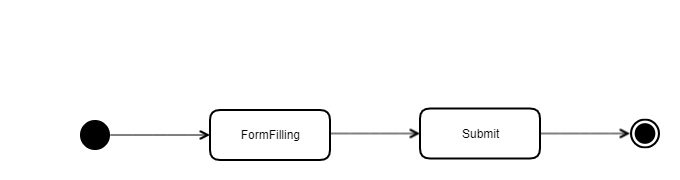
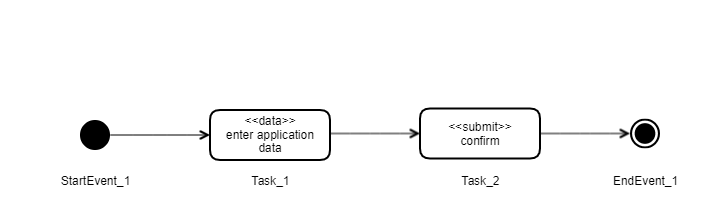
Updated currentTask on Process

Changed region(s): [[0.0618, 0.5, 0.9882, 0.9167], [0.3088, 0.8333, 0.4941, 0.9167], [0.6176, 0.8056, 0.8029, 0.9167]]

diff --git a/content/altinn-api/_index.md b/content/altinn-api/_index.md
@@ -137,7 +137,7 @@ This call will return the instance metadata record that was created. A unique id
         "started": "2019-09-25T09:32:44.20Z",
         "currentTask": {
             "started": "2019-10-10T32:22.00Z",
-            "processElementId": "Data_1",
+            "elementId": "Task_1",
             "name": "Fyll ut",
             "altinnTaskType": "data",
             "validated": {
@@ -313,10 +313,10 @@ Will return a multipart http response with the following content:
 
 Application owners can search for application instances with a simple GET request towards the *instances* endpoint.
 
-For example: To get all instances of appId *org/app*, that is in at task with id *Submit_1* (which is Submit, see process definition), has last changed date greater than *2019-05-01* and that has label *gruppe3*.
+For example: To get all instances of appId *org/app*, that is in at task with id *Task_2* (which is Submit, see process definition), has last changed date greater than *2019-05-01* and that has label *gruppe3*.
 
 ```http
-GET {storagePath}/instances?appId=org/app&process.currentTask=Submit_1&lastChangedDateTime=gt:2019-05-01&label=gruppe3
+GET {storagePath}/instances?appId=org/app&process.currentTask=Task_2&lastChangedDateTime=gt:2019-05-01&label=gruppe3
 ```
 
 Another example is get all instances of all apps of an organistation *org* that has completed their process.
@@ -406,7 +406,7 @@ Example of event data.
     "instanceOwnerId": "60238",
     "userId": 338829,
     "authenticationLevel": 1,
-    "currentTask": "Submit_1",
+    "currentTask": "Task_2",
     "enduserSystemId": 2
 }
 ```
@@ -420,7 +420,7 @@ Selected instance events. Created, first read, change process state. Optinally s
 Events can be queried. May be piped.
 
 ```http
-GET {storagePath}/applications/org/app/events?createdDateTime=gte:2019-03-30&process.currentTask=Submit_1
+GET {storagePath}/applications/org/app/events?createdDateTime=gte:2019-03-30&process.currentTask=Task_2
 ```
 
 Query result: 
@@ -448,8 +448,8 @@ Query result:
             }
         ],
         "eventType": "ProcessStateChange",
-        "previousTask": "Data_1",
-        "currentTask": "Submit_1",
+        "previousTask": "Task_1",
+        "currentTask": "Task_2",
         "userId": "userX"
     }
 ]
@@ -504,11 +504,11 @@ A process is represented by an process modell in BPMN/XML notation. Each task ha
     <bpmn2:startEvent id="StartEvent_1">
       <bpmn2:outgoing>SequenceFlow_1</bpmn2:outgoing>
     </bpmn2:startEvent>
-    <bpmn2:task id="Data_1" name="Fyll ut" altinn:tasktype="data">
+    <bpmn2:task id="Task_1" name="Fyll ut" altinn:tasktype="data">
       <bpmn2:incoming>SequenceFlow_1</bpmn2:incoming>
       <bpmn2:outgoing>SequenceFlow_2</bpmn2:outgoing>
     </bpmn2:task>
-    <bpmn2:task id="Submit_1" name="Send inn" altinn:tasktype="submit">
+    <bpmn2:task id="Task_2" name="Send inn" altinn:tasktype="submit">
       <bpmn2:incoming>SequenceFlow_2</bpmn2:incoming>
       <bpmn2:outgoing>SequenceFlow_3</bpmn2:outgoing>
     </bpmn2:task>
@@ -516,8 +516,8 @@ A process is represented by an process modell in BPMN/XML notation. Each task ha
       <bpmn2:incoming>SequenceFlow_3</bpmn2:incoming>
     </bpmn2:endEvent>
     <bpmn2:sequenceFlow id="SequenceFlow_1" sourceRef="StartEvent_1" targetRef="data_1" />
-    <bpmn2:sequenceFlow id="SequenceFlow_2" sourceRef="Data_1" targetRef="Submit_1" />
-    <bpmn2:sequenceFlow id="SequenceFlow_3" sourceRef="Submit_1" targetRef="EndEvent_1" />
+    <bpmn2:sequenceFlow id="SequenceFlow_2" sourceRef="Task_1" targetRef="Task_2" />
+    <bpmn2:sequenceFlow id="SequenceFlow_3" sourceRef="Task_2" targetRef="EndEvent_1" />
   </bpmn2:process>
 ```
 
@@ -529,7 +529,7 @@ Application developers can in their BPMN Definition specify some altinn specific
 - *submit* - user is asked if he should submit the information which has been filled in on previous tasks
 - *payment* - user is asked to pay a specific amount
 - *signing* - user is asked to provide a digital signature
-- *external* - task is handled by extern entity, user must wait until they have completed the task.
+- *external* - task is handled by an external entity, user must wait until they have completed the task.
 
 ### Get process state of a specific instance
 
@@ -537,15 +537,15 @@ Application developers can in their BPMN Definition specify some altinn specific
 GET {appPath}/instances/347829/41e57962-dfb7-4502-a4dd-8da28b0885fc/process
 ```
 
-For an ongoing process this process state can look like the json below. It indicates that the process was started at a given date time and that it's current task is *Data_1*. The sequence number indicates the sequence of process events/tasks that occurs during the execution of the process. Notice that same task can be visited multiple times in a process if there is a sequence flow that allows that.
+For an ongoing process this process state can look like the json below. It indicates that the process was started at a given date time and that it's current task is *Task_1*. The flow number indicates the sequence of process events/tasks that occurs during the execution of the process. Notice that same task can be visited multiple times in a process if there is a sequence flow that allows that.
 
 ```json
 {
         "started": "2019-09-25T09:32:44.20Z",
         "currentTask": {
-            "sequenceNumber": 2,
+            "flow": 2,
             "started": "2019-10-10T32:22.00Z",
-            "processElementId": "Data_1",
+            "elementId": "Task_1",
             "name": "Fyll ut",
             "altinnTaskType": "data",
             "validated": {
@@ -560,7 +560,7 @@ For an ended process the following will be returned:
 
 ```json
 {
-    "sequenceNumber": 5,
+    "flow": 5,
     "started": "2019-09-25T09:32:44.20Z",
     "ended": "2019-10-10T14:01:22.034Z",
     "endEvent": "EndEvent_1"
@@ -583,8 +583,8 @@ The system will generate a number of process related events, which can be found 
     "instanceId": "347829/41e57962-dfb7-4502-a4dd-8da28b0885fc",
     "eventType": "process:Start",
     "info": {
-        "sequenceNumber": 1,
-        "processElementId": "StartEvent_1",
+        "flow": 1,
+        "elementId": "StartEvent_1",
     },
     "createdDateTime": "2019-10-10T14:01:22.034Z",
 }
@@ -597,9 +597,9 @@ The system will generate a number of process related events, which can be found 
     "instanceId": "347829/41e57962-dfb7-4502-a4dd-8da28b0885fc",
     "eventType": "process:StartTask",
     "info": {
-        "sequenceNumber": 2,
-        "processElementId": "Data_1",
-        "source": 1
+        "flow": 2,
+        "elementId": "Task_1",
+        "source": "StartEvent_1"
     },
     "createdDateTime": "2019-10-01T13:22.01Z",
 }
@@ -612,8 +612,8 @@ The system will generate a number of process related events, which can be found 
     "instanceId": "347829/41e57962-dfb7-4502-a4dd-8da28b0885fc",
     "eventType": "process:EndTask",
     "info": {
-        "sequenceNumber": 2,
-        "processElementId": "Data_1"
+        "flow": 2,
+        "elementId": "Task_1"
     }
     "createdDateTime": "2019-10-05T01:11.33Z",
 }
@@ -626,9 +626,9 @@ The system will generate a number of process related events, which can be found 
     "instanceId": "347829/41e57962-dfb7-4502-a4dd-8da28b0885fc",
     "eventType": "process:EndEvent",
     "info": {
-        "sequenceNumber": 3,
-        "processElementId": "EndEvent_1",
-        "source": 2
+        "flow": 3,
+        "elementId": "EndEvent_1",
+        "source": "Task_2"
     },
     "createdDateTime": "2019-10-05T08:15:23.544Z",
 }
@@ -644,29 +644,29 @@ GET {appPath}/instances/347829/41e57962-dfb7-4502-a4dd-8da28b0885fc/process/hist
 
 ```json
 [{
-    "sequenceNumber": 1,
+    "flow": 1,
     "type": "process:startEvent",
-    "processElementId": "StartEvent_1",
+    "elementId": "StartEvent_1",
     "occured": "2019-10-10T14:01:22.034Z",
 },
 {
-    "sequenceNumber": 2,
+    "flow": 2,
     "type": "process:task",
-    "processElementId": "Data_1",
+    "elementId": "Task_1",
     "started": "2019-10-01T13:22.01Z",
     "ended": "2019-10-05T01:11.33Z",
 },
 {
-    "sequenceNumber": 3,
+    "flow": 3,
     "type": "process:task",
-    "processElementId": "Submit_1",
+    "elementId": "Task_2",
     "started": "2019-10-05T08:14:33.232Z",
     "ended": "2019-10-05T08:15:23.543Z"
 },
 {
-    "sequenceNumber": 4,
+    "flow": 4,
     "type": "process:endEvent",
-    "processElementId": "EndEvent_1",
+    "elementId": "EndEvent_1",
     "occured": "2019-10-05T08:15:23.544Z"
 }]
 ```
@@ -675,23 +675,28 @@ GET {appPath}/instances/347829/41e57962-dfb7-4502-a4dd-8da28b0885fc/process/hist
 Is it in signing? Is it form filling +++ Used by react to decide what to show.
 http://altinn3.no/runtime/api/workflow/3/RtlOrg/apitracing/GetCurrentState?instanceId=32dacdff-1f99-4958-9790-b0a0aeccfaa5 -->
 
-### Complete a task
+### Start Process
 
-Application attempts to finish the current task and moves the process forward to the next task in the flow. The application cannot always select the next task, especially when more than one tasks can be chosen. In this case the user must chose which task to select. 
-
-![Flowchart for completing a task](process-completeTask.png "Process complete task")
+To start a process one can post start to the process endopoint.
 
 ```http
-PUT {appPath}/instances/347829/41e57962-dfb7-4502-a4dd-8da28b0885fc/process/completeTask
+PUT {appPath}/instances/347829/41e57962-dfb7-4502-a4dd-8da28b0885fc/process/start[?startEvent=StartEvent_1]
 ```
+
+This will start the process and move the process state to the first task  from the given start. If process has more than one start event, then the client has to chose which one to start with the startEvent query parameter.
+
+### Complete and move to next task
+
+The process logic attempts to finish the current task and then moves the process forward to the next task in the flow. The cannot always select the next task, especially when more than one tasks can be chosen. In this case the client must chose which process element id to select.
+
+![Flowchart for completing a task](process-completeTask.png "Process next task")
+
+```http
+PUT {appPath}/instances/347829/41e57962-dfb7-4502-a4dd-8da28b0885fc/process/next[?id=Task_2]
+```
+
 <!--OLD  //Complete
 http://altinn3.no/runtime/api/3/RtlOrg/apitracing/7f32a720-a1e9-4565-a351-b3f66f9641b0/Complete -->
-
-Alternatively one can ask the app to go to the next task. The application will try to close the current task and attempt to start the next task. 
-
-```http
-PUT {appPath}/instances/347829/41e57962-dfb7-4502-a4dd-8da28b0885fc/process/next
-```
 
 ### Complete the process
 
@@ -704,6 +709,7 @@ If a task's exit condition is not met, the process will be stopped in the last v
 ```http
 PUT {appPath}/instances/347829/41e57962-dfb7-4502-a4dd-8da28b0885fc/process/completeProcess
 ```
+
 <!-- OLD // CompleteAndSendIn
 http://altinn3.no/runtime/RtlOrg/apitracing/7f32a720-a1e9-4565-a351-b3f66f9641b0/CompleteAndSendIn -->
 
@@ -720,7 +726,7 @@ GET {appPath}/instances/347829/41e57962-dfb7-4502-a4dd-8da28b0885fc/process/next
 Tries to close the current task and start the wanted task. Updates process state accordingly. If exit condition of current task is not met, an error will be returned. If the task is not directly reachable by the flow, an error will be returned.
 
 ```http
-PUT {appPath}/instances/347829/41e57962-dfb7-4502-a4dd-8da28b0885fc/process/next?id=Submit_1
+PUT {appPath}/instances/347829/41e57962-dfb7-4502-a4dd-8da28b0885fc/process/next?id=Task_2
 ```
 
 ## Application resources
@@ -744,25 +750,28 @@ GET {appPath}
     "createdDateTime": "2019-03-06T13:46:48.6882148Z",
     "createdBy": "XXX",
     "title": { "nb": "Testapplikasjon", "en": "Test Application" },
-    "processId": "twoformsAndsubmit",
+    "processId": "twoTasksDataAndSubmit",
     "validFrom": "2019-04-01T12:14:22Z",
     "validTo": null,
     "maxSize": -1,
     "elementTypes": [
         {
             "id": "default",
+            "appLogic": true,
             "description": {"nb": "Båtdata", "en": "Boat data"},
             "allowedContentType": ["application/json"],
             "schema": {
                 "fileName": "boat.json-schema",
                 "schemaUrl": "/applications/test/sailor/schemas/boatdata"
             },
-            "task": "Data_1",
+            "task": "Task_1",
             "maxSize": 200000,
+            "minCount": 1,
             "maxCount": 1,
         },
         {
             "id": "crewlist",
+            "appLogic": true,
             "allowedContentType": ["application/xml"],
             "schema": {
                 "fileName": "crew.xsd",
@@ -770,13 +779,16 @@ GET {appPath}
             },
             "task": "Data_2",
             "maxSize": -1,
+            "minCount": 1,
             "maxCount": 3,
         },
         {
             "id": "certificate",
+            "appLogic": false,
             "allowedContentType": ["application/pdf"],
-            "task": "Data_1",
+            "task": "Task_1",
             "maxSize": -1,
+            "minCount": 1,
             "maxCount": 1,
         }
     ]

diff --git a/content/architecture/application/altinn-platform/storage/_index.md b/content/architecture/application/altinn-platform/storage/_index.md
@@ -44,7 +44,7 @@ An appId refers to the application information element which defines the metadat
         "started": "2019-09-25T09:32:44.20Z",
         "currentTask": {
             "started": "2019-10-10T32:22.00Z",
-            "processElementId": "Data_1",
+            "elementId": "Data_1",
             "name": "Fyll ut",
             "altinnTaskType": "data",
             "validated": {
